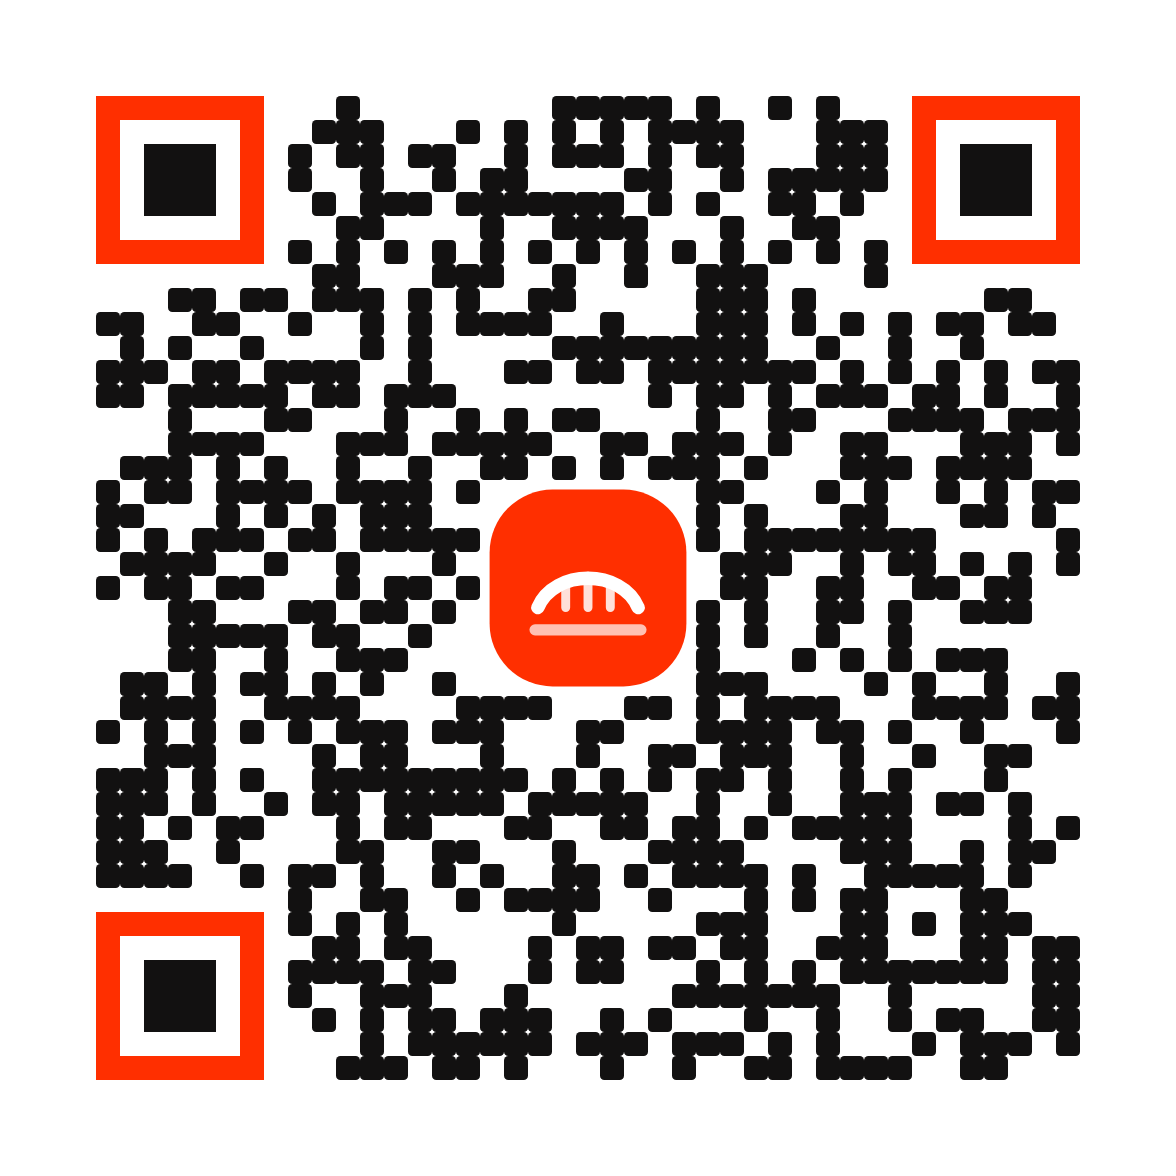
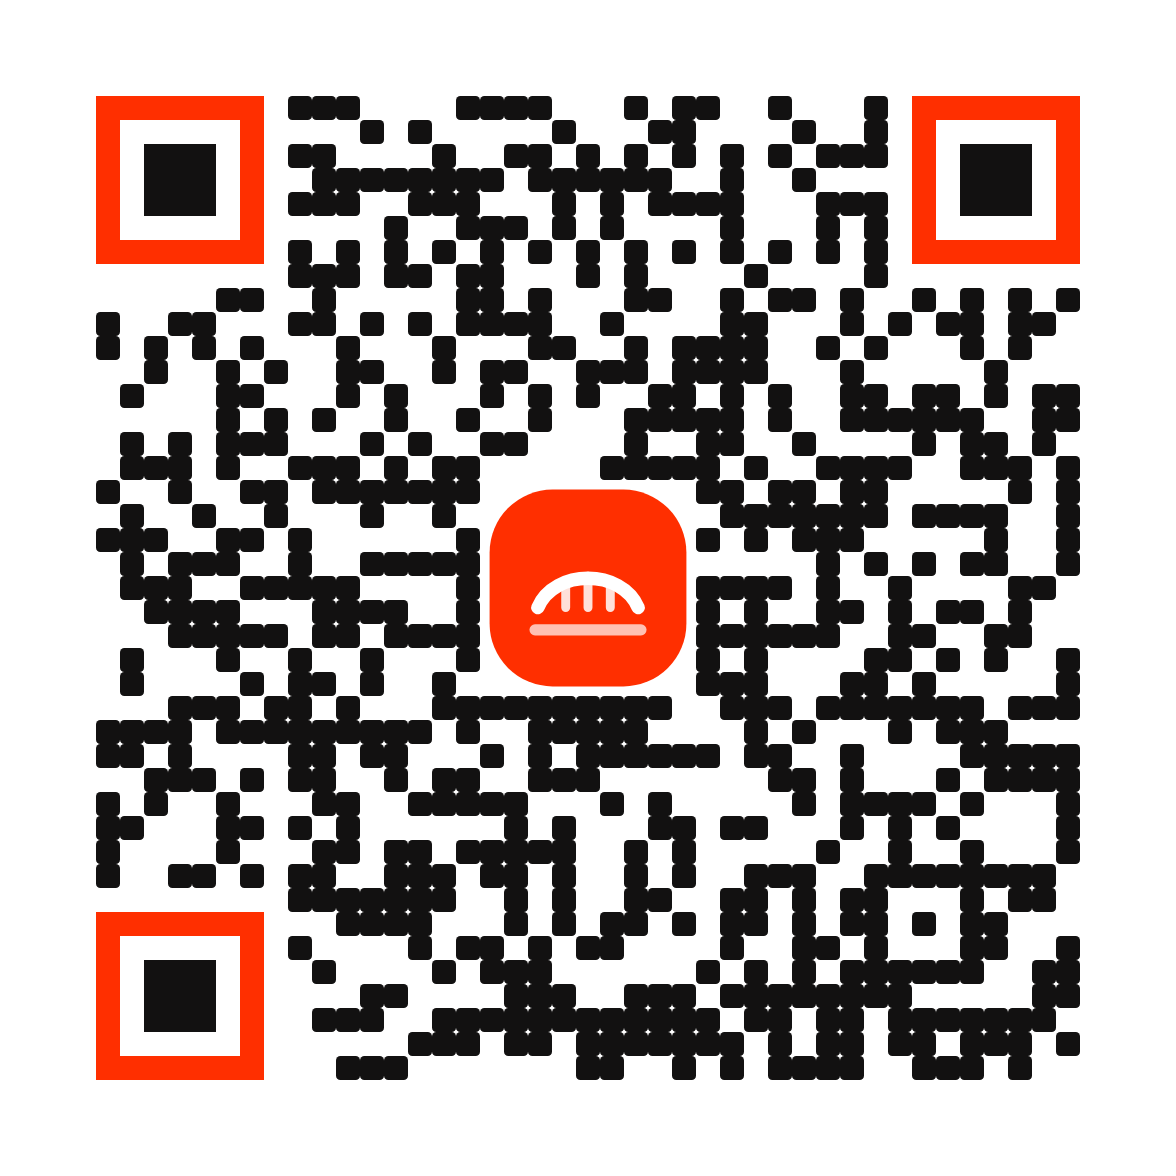
Hashi's own CashTokens address, bitcoincash:zrrac20n7tmqwysz2l6aqxyw5w6npqv9pssndrqjnh, everywhere the old one was: README (text and QR), the submission fields and story, the /slides thank-you slide (text and QR) and the docs (text and QR); every QR redrawn from the same model as the app's and decod

diff --git a/docs-site/lib/site.ts b/docs-site/lib/site.ts
@@ -34,7 +34,7 @@ export const BLAZE = {
   bountyUrl: "https://bchblaze.cash/bounties/stablecoin-bridge/",
   deck: "https://hashi.cash/slides",
   demo: "https://youtu.be/bbLQ44UAdBU",
-  cashtokens: "bitcoincash:zqnvys4cpkjk9qtsmjwmhysgtlm9vvf6uvms3x8sh9",
+  cashtokens: "bitcoincash:zrrac20n7tmqwysz2l6aqxyw5w6npqv9pssndrqjnh",
   qr: "/cashtokens-qr.svg",
 } as const
 

diff --git a/apps/web/features/slides/deck.tsx b/apps/web/features/slides/deck.tsx
@@ -481,7 +481,7 @@ const SLIDES: readonly Slide[] = [
         >
           bitcoincash:
           <br />
-          zqnvys4cpkjk9qtsmjwmhysgtlm9vvf6uvms3x8sh9
+          zrrac20n7tmqwysz2l6aqxyw5w6npqv9pssndrqjnh
         </p>
       </>
     ),

diff --git a/.github/submission/story.md b/.github/submission/story.md
@@ -10,7 +10,7 @@ Built for the BCH BLAZE 2026 Stablecoin Bridge bounty. _Hashi_ (橋) is Japanese
 
 **Watch:** https://youtu.be/bbLQ44UAdBU (2:40) and, signed live, https://youtu.be/ZGtYV9u5jW8 (3:10) · **Try it:** https://hashi.cash · **Docs:** https://docs.hashi.cash · **Code:** https://github.com/Blockchain-Oracle/hashi
 
-**Widget Factory deck:** https://hashi.cash/slides (also as [Google Slides](https://docs.google.com/presentation/d/1GsuhBp2tMZBT6PexcLFE3e43yriJf5NbqJEEuzlpjQ4/edit?usp=sharing)) · **CashTokens address** (prizes and EMBER2026 votes): `bitcoincash:zqnvys4cpkjk9qtsmjwmhysgtlm9vvf6uvms3x8sh9`
+**Widget Factory deck:** https://hashi.cash/slides (also as [Google Slides](https://docs.google.com/presentation/d/1GsuhBp2tMZBT6PexcLFE3e43yriJf5NbqJEEuzlpjQ4/edit?usp=sharing)) · **CashTokens address** (prizes and EMBER2026 votes): `bitcoincash:zrrac20n7tmqwysz2l6aqxyw5w6npqv9pssndrqjnh`
 
 ## Demo video
 

diff --git a/README.md b/README.md
@@ -158,9 +158,9 @@ The docs walk through [the bounty line by line](https://docs.hashi.cash/docs/bui
 ## CashTokens address
 
 <p align="center">
-  <img src=".github/assets/cashtokens-qr.png" width="240" alt="QR code for Hashi's CashTokens address, bitcoincash:zqnvys4cpkjk9qtsmjwmhysgtlm9vvf6uvms3x8sh9" />
+  <img src=".github/assets/cashtokens-qr.png" width="240" alt="QR code for Hashi's CashTokens address, bitcoincash:zrrac20n7tmqwysz2l6aqxyw5w6npqv9pssndrqjnh" />
 </p>
-<p align="center"><code>bitcoincash:zqnvys4cpkjk9qtsmjwmhysgtlm9vvf6uvms3x8sh9</code></p>
+<p align="center"><code>bitcoincash:zrrac20n7tmqwysz2l6aqxyw5w6npqv9pssndrqjnh</code></p>
 
 Hashi's token-aware Bitcoin Cash address, the one the banner shows. BCH BLAZE sends prizes here, and EMBER2026 holders vote for Hashi in Community Choice by sending their tokens here. Scan it with Paytaca, Selene or Cashonize.
 

diff --git a/.github/submission/fields.md b/.github/submission/fields.md
@@ -19,7 +19,7 @@ Ready to paste. Character limits on the DoraHacks form are not visible without a
 - Docs: https://docs.hashi.cash
 - Source: https://github.com/Blockchain-Oracle/hashi
 - Widget Factory deck: https://hashi.cash/slides (full screen; the Google Slides copy: https://docs.google.com/presentation/d/1GsuhBp2tMZBT6PexcLFE3e43yriJf5NbqJEEuzlpjQ4/edit?usp=sharing)
-- CashTokens address: bitcoincash:zqnvys4cpkjk9qtsmjwmhysgtlm9vvf6uvms3x8sh9
+- CashTokens address: bitcoincash:zrrac20n7tmqwysz2l6aqxyw5w6npqv9pssndrqjnh
 - Demo video: https://youtu.be/bbLQ44UAdBU (2:40)
 - Live mainnet demo, signed on camera: https://youtu.be/ZGtYV9u5jW8 (3:10)
 - Both videos with chapters: https://hashi.cash/demo
